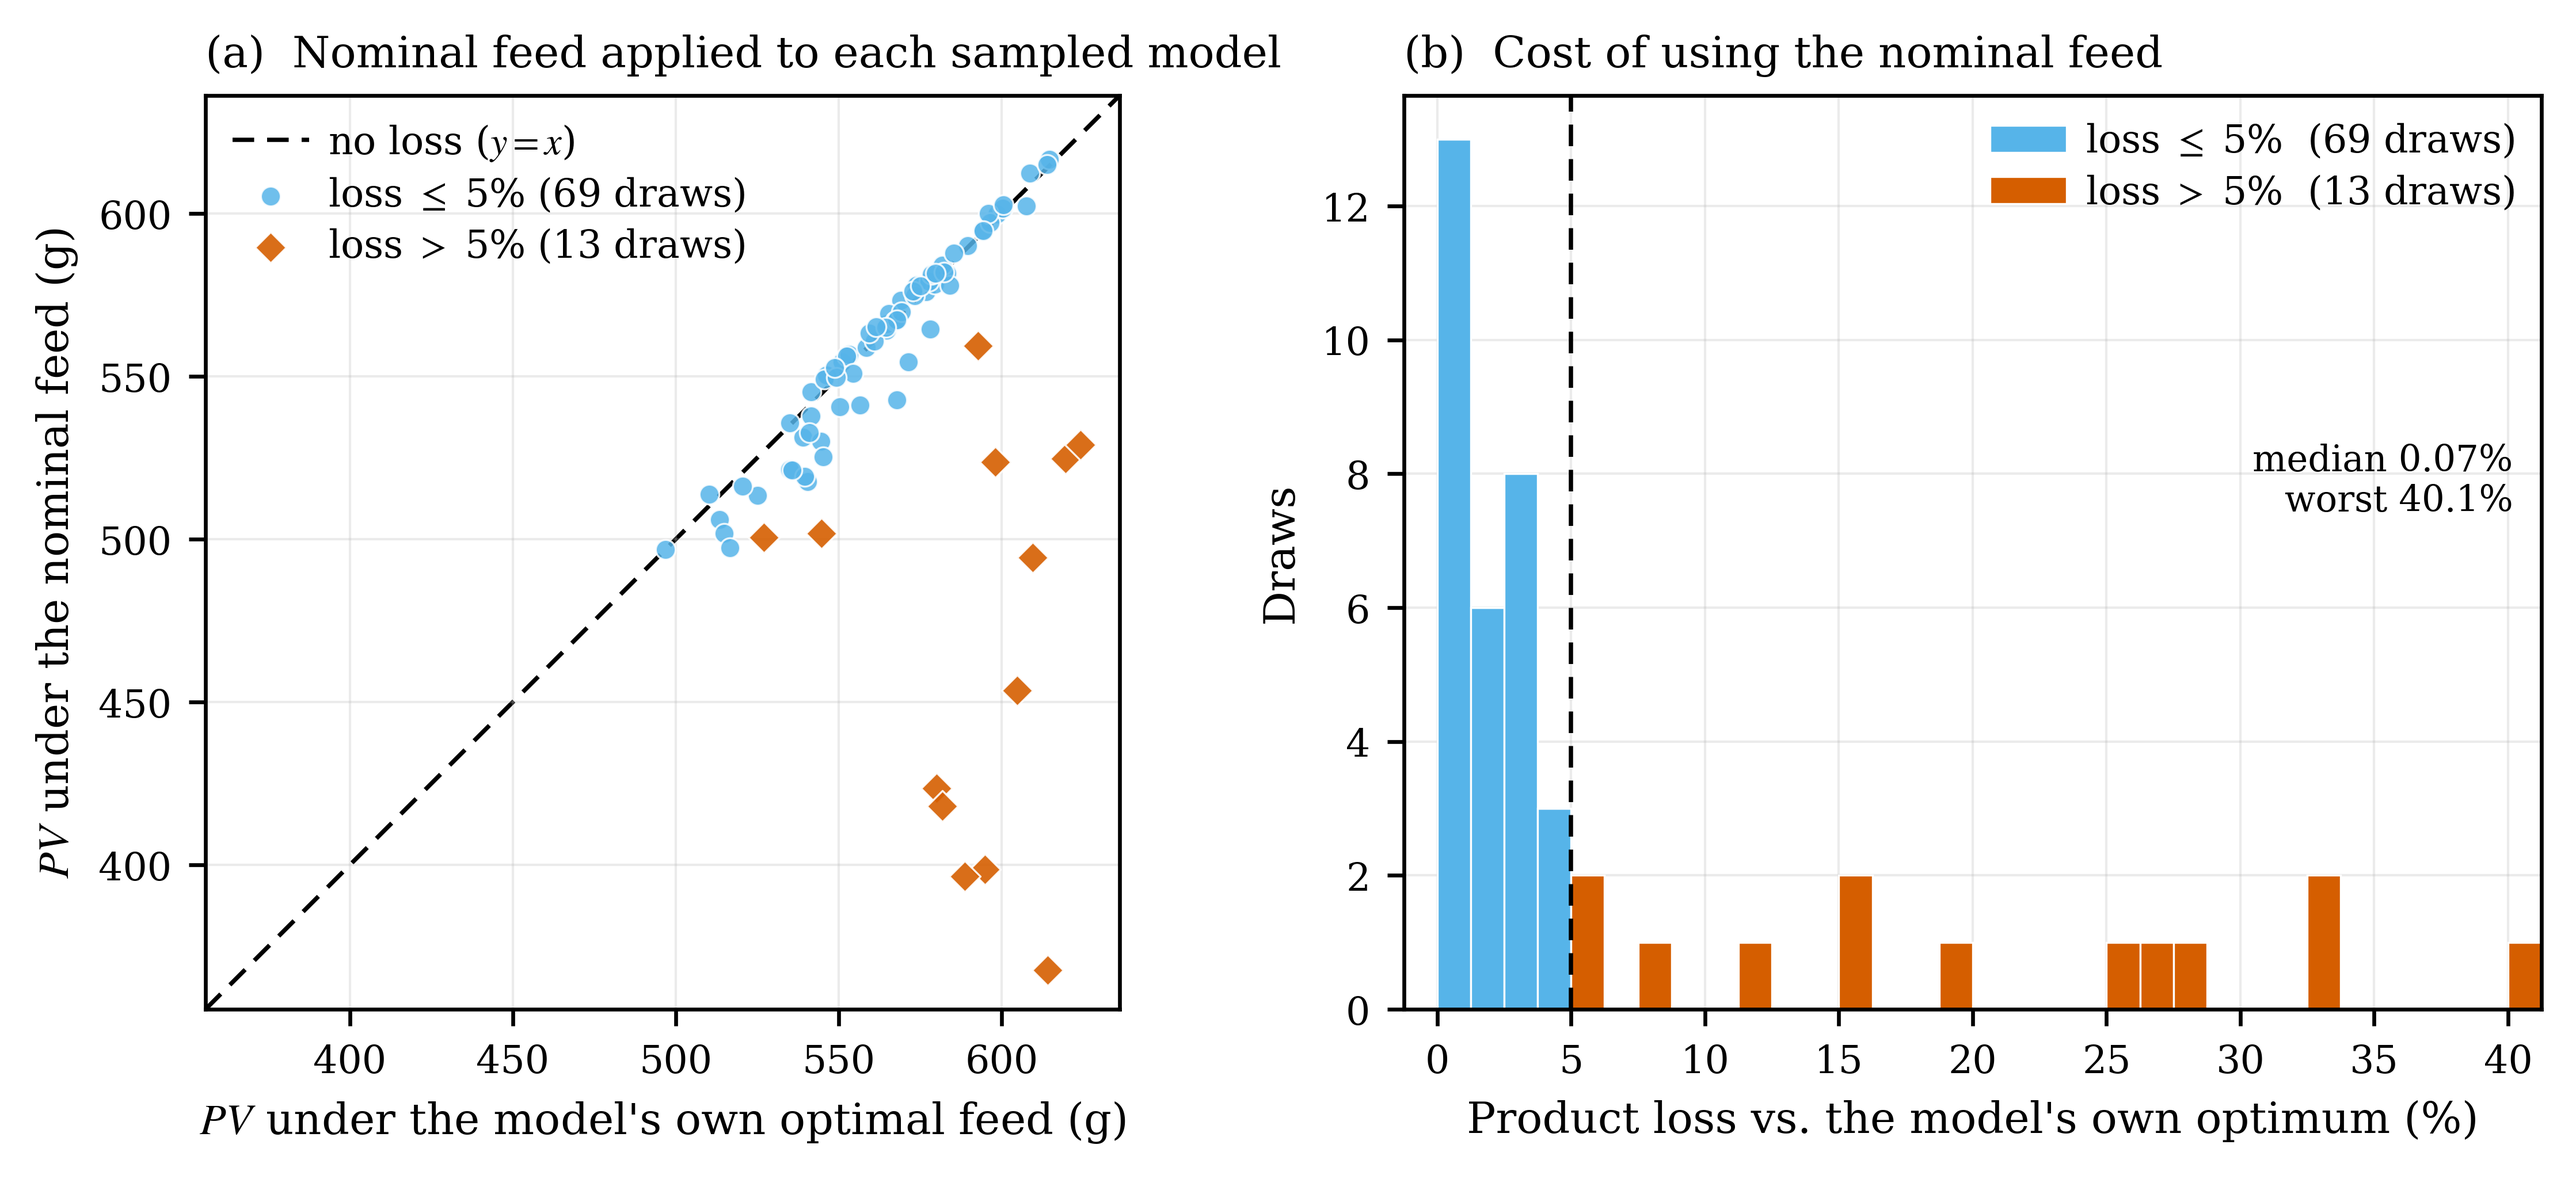
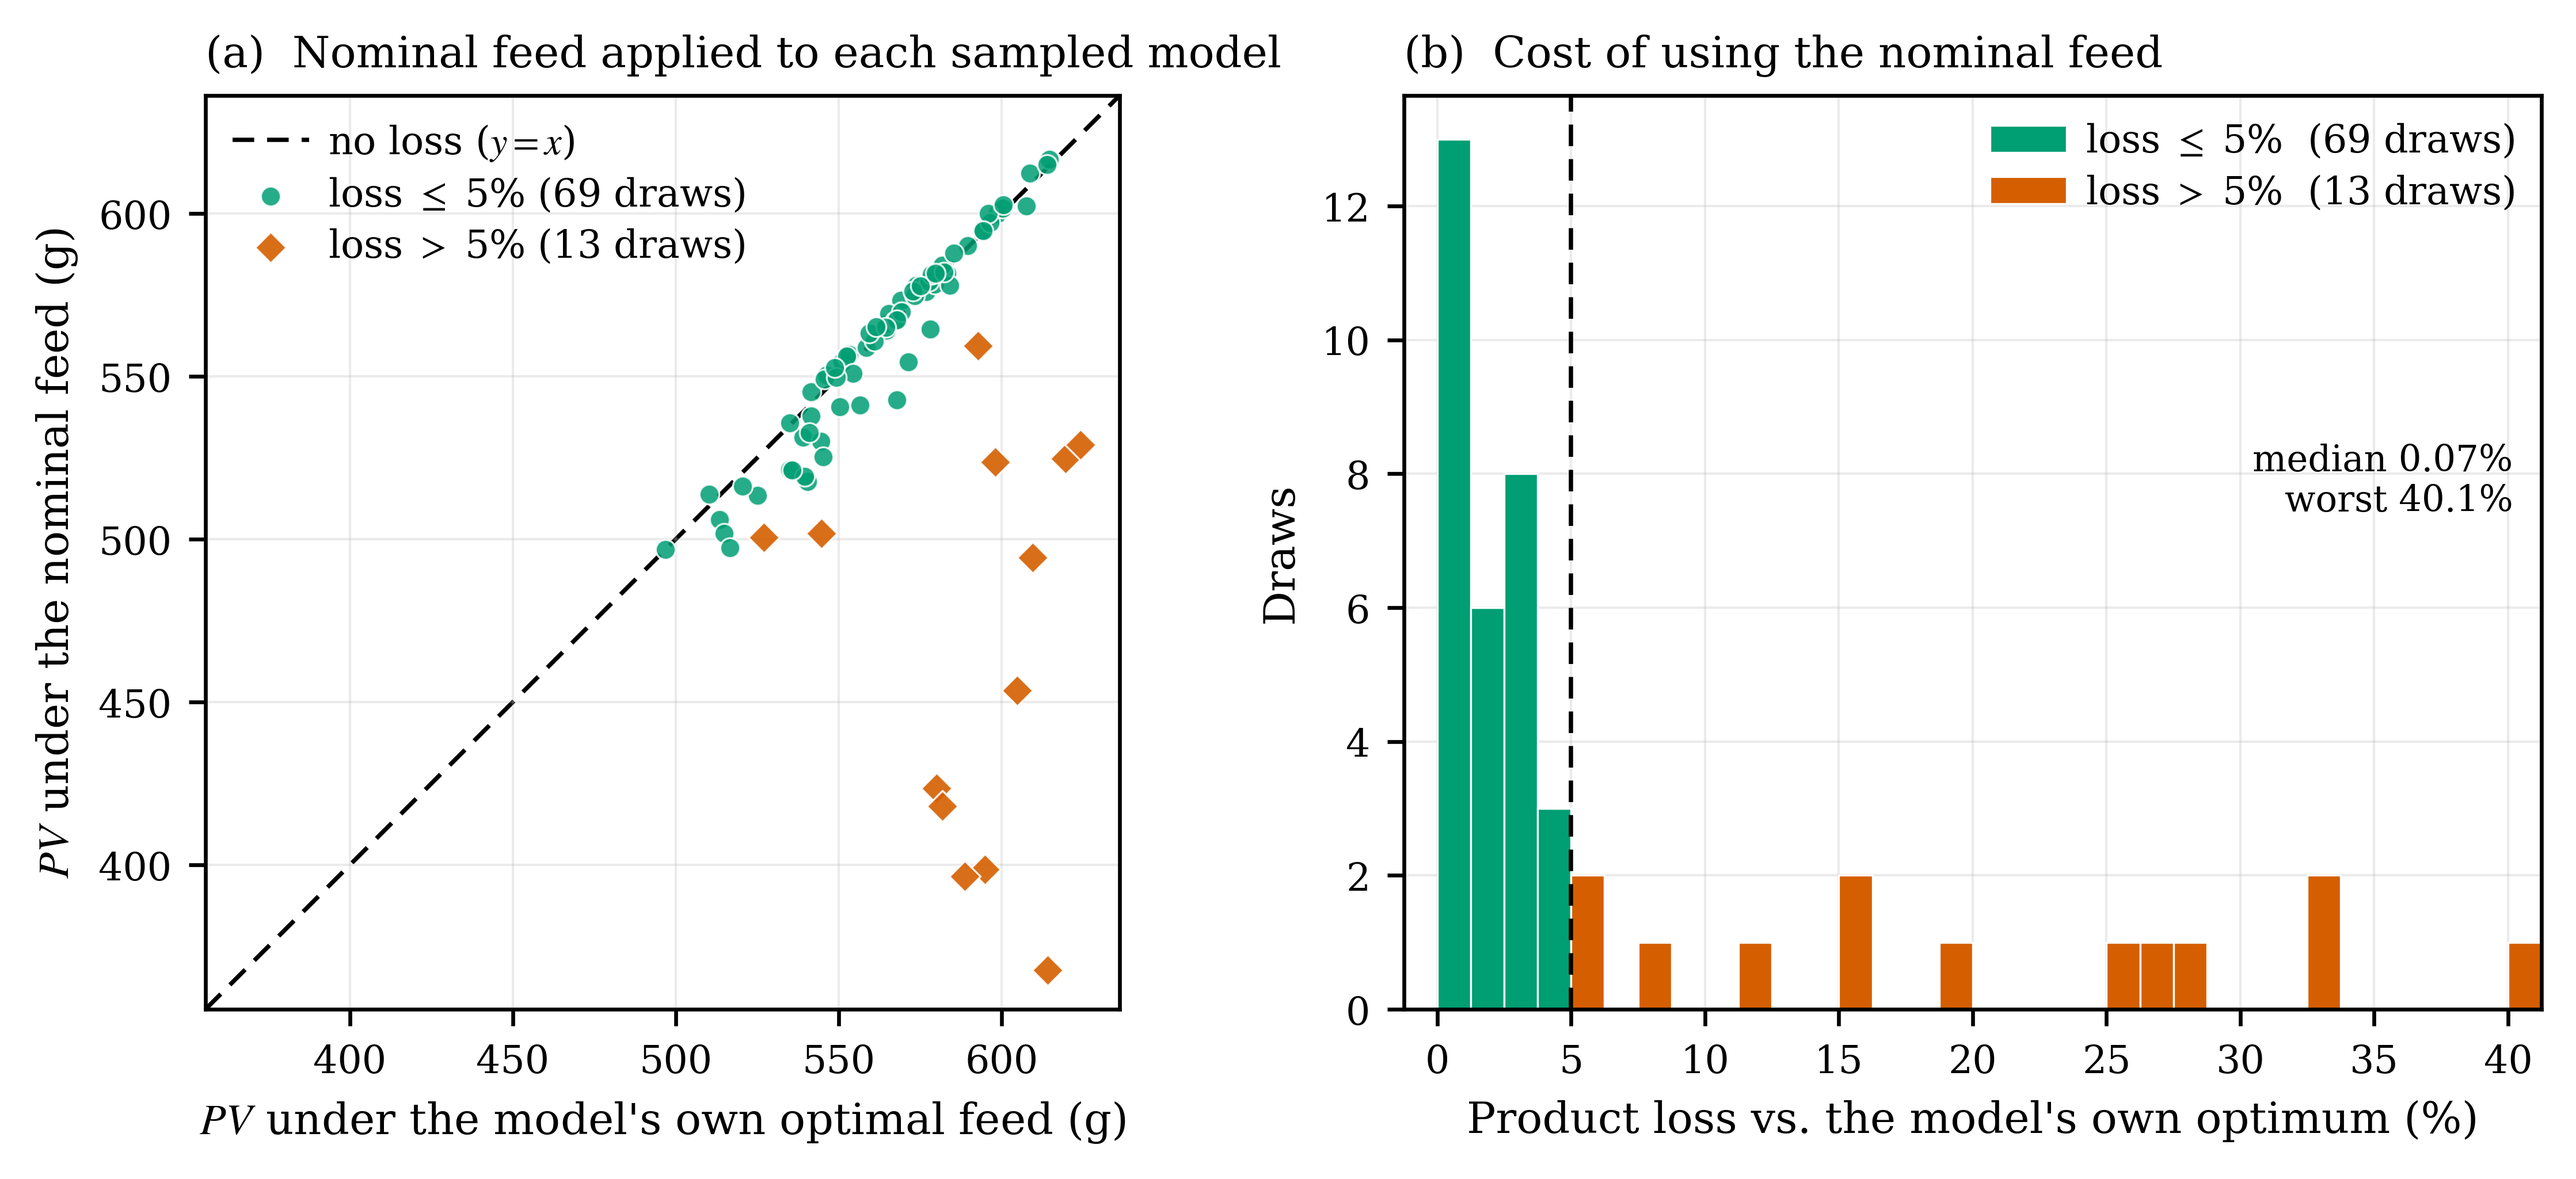
change color of plots

diff --git a/scripts/substrate_and_product_inhibition/crossfeed.py b/scripts/substrate_and_product_inhibition/crossfeed.py
@@ -48,13 +48,19 @@ ENSEMBLE = MC / "feed_ensemble_balanced_cv20.npz"
 NOMINAL = MC / "feed_nominal_balanced.npz"
 FIGURE = HERE / "crossfeed.png"
 
-#: Okabe-Ito, in the SAME ROLES sampling_spi.py assigns them: sky blue carries the
-#: data, vermillion the contrast series, black the reference lines. Matching the roles
-#: and not merely the palette is what makes the figures read as one set -- a reader who
-#: has learnt that vermillion means "the costly case" on one figure keeps that reading.
+#: Okabe-Ito, in the SAME ROLES sampling_spi.py assigns them: black for reference
+#: lines, and the bluish-green / vermillion pair for good vs bad -- exactly how the SRC
+#: tornado already reads them ("increases PV" / "decreases PV"). Matching the roles and
+#: not merely the palette is what makes the figures read as one set.
+#:
+#: Green against vermillion is the tightest pair in the set under red-green CVD: OKLab
+#: dE is 25.8 normal, 13.0 protanopia, 11.0 deuteranopia. Above the dE >= 8 target, but
+#: with less headroom than sky blue would give, so the second encoding is not optional
+#: -- panel (a) separates the series by MARKER SHAPE and panel (b) by position either
+#: side of the threshold. Keep both if these colours are ever restyled.
 OI = {"orange": "#E69F00", "sky_blue": "#56B4E9", "bluish_green": "#009E73",
       "vermillion": "#D55E00", "black": "#000000", "reddish_purple": "#CC79A7"}
-C_OK, C_BAD, C_INK = OI["sky_blue"], OI["vermillion"], OI["black"]
+C_OK, C_BAD, C_INK = OI["bluish_green"], OI["vermillion"], OI["black"]
 
 #: Loss above which a draw counts as materially hurt by the nominal feed (%).
 THRESH = 5.0
